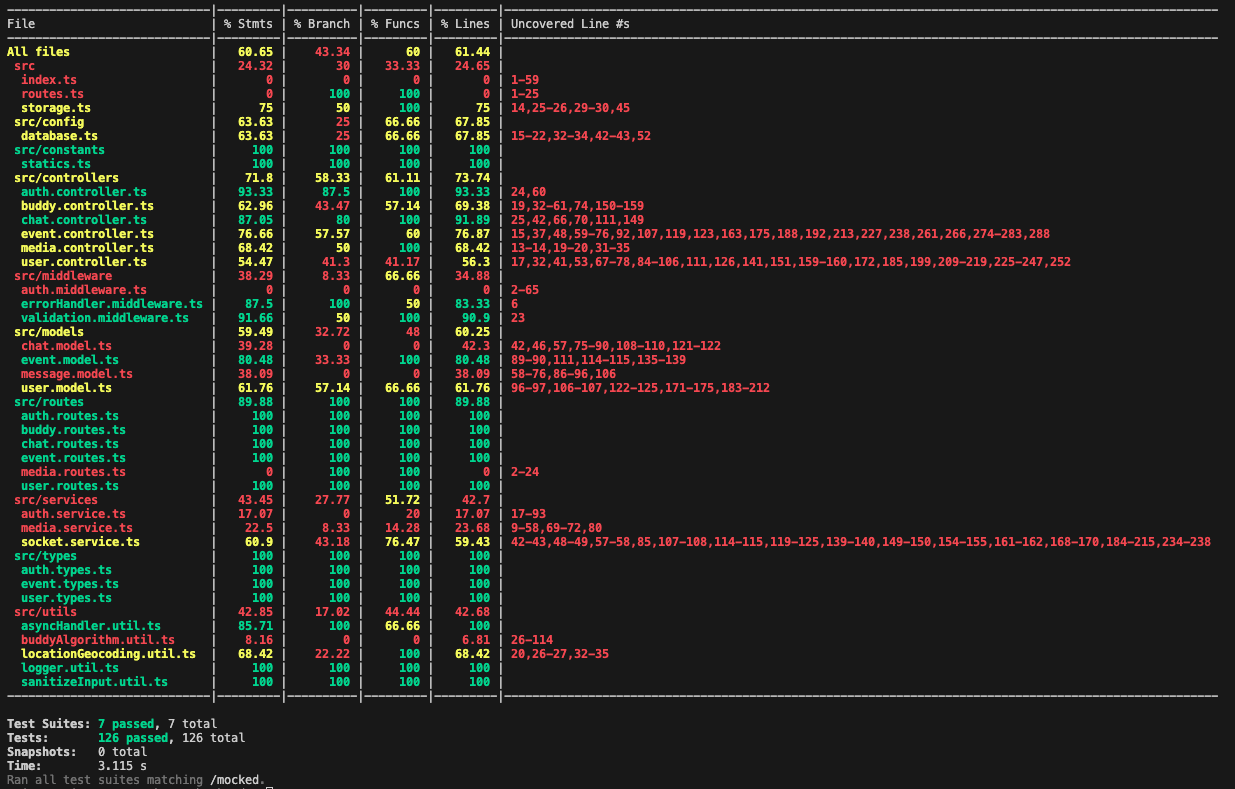
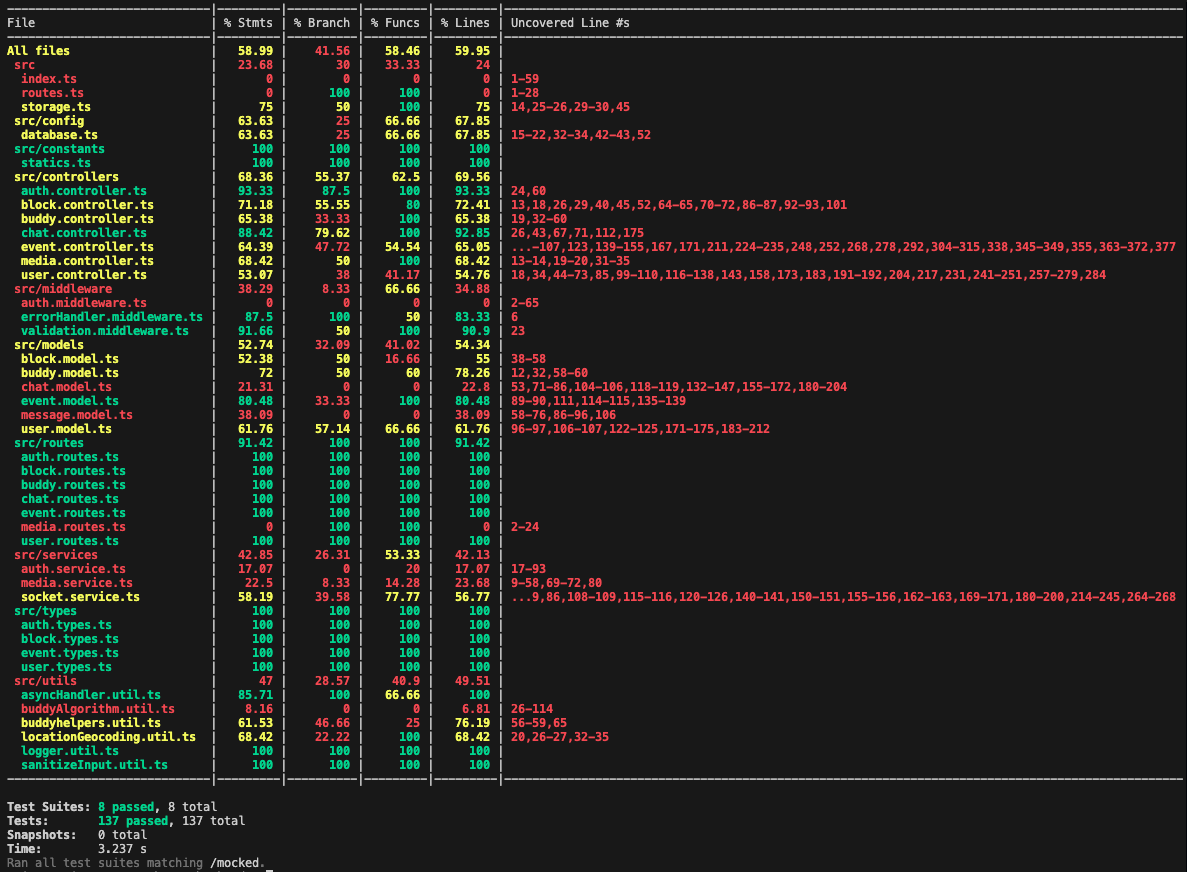
add testing doc forb locks

Changed region(s): [[0.0, 0.0, 0.9975, 1.0]]

diff --git a/backend/tests/unmocked/blockNM.test.ts b/backend/tests/unmocked/blockNM.test.ts
@@ -83,14 +83,14 @@ afterAll(async () => {
   await teardownTestDB();
 });
 
-describe('Block Controller - Unmocked', () => {
+describe('POST /api/block - unmocked', () => {
   /*
     Inputs: POST request to /api/block with targetUserId being a valid ObjectId as an unauthenticated user
     Expected status: 401
     Output: { message: unauthorized }
     Expected behavior: Returns error when unauthenticated user tries to block another user
   */
-  test('POST /api/block returns 401 when unauthorized', async () => {
+  test('returns 401 when unauthorized', async () => {
     const res = await request(app)
       .post('/api/block')
       .set('x-no-auth', '1')
@@ -105,7 +105,7 @@ describe('Block Controller - Unmocked', () => {
     Output: { message: Invalid target user id }
     Expected behavior: Returns error when invalid target user id is provided
   */
-  test('POST /api/block returns 400 for invalid target user id', async () => {
+  test('returns 400 for invalid target user id', async () => {
     const res = await request(app)
       .post('/api/block')
       .send({ targetUserId: 'invalid-id' });
@@ -119,7 +119,7 @@ describe('Block Controller - Unmocked', () => {
     Output: { message: Cannot block yourself }
     Expected behavior: Returns error when attempting to block oneself
   */
-  test('POST /api/block returns 400 when blocking self', async () => {
+  test('returns 400 when blocking self', async () => {
     const res = await request(app)
       .post('/api/block')
       .send({ targetUserId: String(userA._id) });
@@ -133,21 +133,23 @@ describe('Block Controller - Unmocked', () => {
     Output: { message: User blocked successfully }
     Expected behavior: Returns success message when successfully blocking another valid user
   */
-  test('POST /api/block succeeds (201) when A blocks B', async () => {
+  test('succeeds (201) when A blocks B', async () => {
     const res = await request(app)
       .post('/api/block')
       .send({ targetUserId: String(userB._id) });
     expect(res.status).toBe(201);
     expect(res.body).toHaveProperty('message', 'User blocked successfully');
   });
+});
 
+describe('GET /api/block - unmocked', () => {
   /*
     Inputs: GET request to /api/block as an unauthenticated user
     Expected status: 401
     Output: { message: unauthorized }
     Expected behavior: Returns error when unauthenticated user tries to get list of blocked users
   */
-  test('GET /api/block returns 401 when unauthorized', async () => {
+  test('returns 401 when unauthorized', async () => {
     const res = await request(app)
       .get('/api/block')
       .set('x-no-auth', '1');
@@ -161,7 +163,7 @@ describe('Block Controller - Unmocked', () => {
     Output: { data: { blockedUserIds: [String] } }
     Expected behavior: Returns list of blocked user ids
   */
-  test('GET /api/block lists blocked users', async () => {
+  test('lists blocked users', async () => {
     const res = await request(app).get('/api/block');
     expect(res.status).toBe(200);
     expect(res.body).toHaveProperty('data');
@@ -169,14 +171,16 @@ describe('Block Controller - Unmocked', () => {
     expect(Array.isArray(res.body.data.blockedUserIds)).toBe(true);
     expect(res.body.data.blockedUserIds).toContain(String(userB._id));
   });
+});
 
+describe('GET /api/block/check/:targetUserId - unmocked', () => {
   /*
     Inputs: GET request to /api/block/check/:targetUserId as an unauthenticated user
     Expected status: 401
     Output: { message: unauthorized }
     Expected behavior: Returns error when unauthenticated user tries to check if someone has blocked them
   */
-  test('GET /api/block/check/:targetUserId returns 401 when unauthorized', async () => {
+  test('returns 401 when unauthorized', async () => {
     const res = await request(app)
       .get(`/api/block/check/${String(userB._id)}`)
       .set('x-no-auth', '1');
@@ -190,7 +194,7 @@ describe('Block Controller - Unmocked', () => {
     Output: { message: Invalid target user id }
     Expected behavior: Returns error when checking if someone with an invalid userId has blocked them
   */
-  test('GET /api/block/check/:targetUserId returns 400 for invalid id', async () => {
+  test('returns 400 for invalid id', async () => {
     const res = await request(app).get('/api/block/check/invalid-id');
     expect(res.status).toBe(400);
     expect(res.body).toHaveProperty('message', 'Invalid target user id');
@@ -202,7 +206,7 @@ describe('Block Controller - Unmocked', () => {
     Output: { data: { isBlocked: boolean } }
     Expected behavior: Returns true if the user is blocked by the target user, false otherwise
   */
-  test('GET /api/block/check/:targetUserId returns correct isBlocked status', async () => {
+  test('returns correct isBlocked status', async () => {
     // At this point A has blocked B, but B has not blocked A: A is not blocked by B
     const aCheckB = await request(app).get(`/api/block/check/${String(userB._id)}`);
     expect(aCheckB.status).toBe(200);
@@ -222,14 +226,16 @@ describe('Block Controller - Unmocked', () => {
     expect(aCheckBAgain.body).toHaveProperty('data');
     expect(aCheckBAgain.body.data).toHaveProperty('isBlocked', true);
   });
+});
 
+describe('DELETE /api/block/:targetUserId - unmocked', () => {
   /*
     Inputs: DELETE request to /api/block/:targetUserId as an unauthenticated user
     Expected status: 401
     Output: { message: unauthorized }
     Expected behavior: Returns error when unauthenticated user tries to unblock another user
   */
-  test('DELETE /api/block/:targetUserId returns 401 when unauthorized', async () => {
+  test('returns 401 when unauthorized', async () => {
     const res = await request(app)
       .delete(`/api/block/${String(userB._id)}`)
       .set('x-no-auth', '1');
@@ -243,19 +249,19 @@ describe('Block Controller - Unmocked', () => {
     Output: { message: Invalid target user id }
     Expected behavior: Returns error when unblocking a user with an invalid userId
   */
-  test('DELETE /api/block/:targetUserId returns 400 for invalid id', async () => {
+  test('returns 400 for invalid id', async () => {
     const res = await request(app).delete('/api/block/not-an-id');
     expect(res.status).toBe(400);
     expect(res.body).toHaveProperty('message', 'Invalid target user id');
   });
 
-    /*
+  /*
     Inputs: DELETE request to /api/block/:targetUserId with targetUserId being a valid ObjectId
     Expected status: 200
     Output: { message: User unblocked successfully }
     Expected behavior: Returns success message when successfully unblocking another valid user
   */
-  test('DELETE /api/block/:targetUserId succeeds (200) for A unblocking B', async () => {
+  test('succeeds (200) for A unblocking B', async () => {
     const res = await request(app).delete(`/api/block/${String(userB._id)}`);
     expect(res.status).toBe(200);
     expect(res.body).toHaveProperty('message', 'User unblocked successfully');

diff --git a/backend/tests/mocked/blockM.test.ts b/backend/tests/mocked/blockM.test.ts
@@ -29,7 +29,22 @@ afterAll(() => {
   // nothing needed
 });
 
-describe('BlockModel - mocked', () => {
+
+describe('POST /api/block - mocked', () => {
+  /*
+    Inputs: POST request to /api/block with targetUserId being a valid ObjectId
+    Expected status: 500
+    Output: { error }
+    Expected behavior: Returns error when there is a database error trying to add to the blocked table
+  */
+  test('returns 500 when blockUser throws', async () => {
+    const targetId = new mongoose.Types.ObjectId();
+    const spy = jest.spyOn(blockModel, 'blockUser').mockRejectedValue(new Error('DB error'));
+    const res = await request(app).post('/api/block').send({ targetUserId: targetId.toString() });
+    expect(res.status).toBe(500);
+    expect(spy).toHaveBeenCalled();
+  });
+
   /*
     Inputs: Function call to blockUser with targetUserId being the same as the authenticated user
     Output: { error: Cannot block yourself }
@@ -54,60 +69,51 @@ describe('BlockModel - mocked', () => {
     await expect(blockModel.blockUser(a, b)).rejects.toThrow('Failed to create block record');
     expect(spy).toHaveBeenCalled();
   });
+
 });
 
-describe('BlockController - mocked error paths', () => {
-  /*
-    Inputs: POST request to /api/block with targetUserId being a valid ObjectId
-    Expected status: 500
-    Output: { error }
-    Expected behavior: Returns error when there is a database error trying to add to the blocked table
-  */
-  test('POST /api/block returns 500 when blockUser throws', async () => {
-    const targetId = new mongoose.Types.ObjectId();
-    const spy = jest.spyOn(blockModel, 'blockUser').mockRejectedValue(new Error('DB error'));
-    const res = await request(app).post('/api/block').send({ targetUserId: targetId.toString() });
-    expect(res.status).toBe(500);
-    expect(spy).toHaveBeenCalled();
-  });
-
-  /*
-    Inputs: DELETE request to /api/block/:targetUserId with targetUserId being a valid ObjectId
-    Expected status: 500
-    Output: { error }
-    Expected behavior: Returns error when there is a database error trying to add to the blocked table
-  */
-  test('DELETE /api/block/:targetUserId returns 500 when unblockUser throws', async () => {
-    const targetId = new mongoose.Types.ObjectId();
-    const spy = jest.spyOn(blockModel, 'unblockUser').mockRejectedValue(new Error('DB error'));
-    const res = await request(app).delete(`/api/block/${targetId.toString()}`);
-    expect(res.status).toBe(500);
-    expect(spy).toHaveBeenCalled();
-  });
-
+describe('GET /api/block - mocked', () => {
   /*
     Inputs: GET request to /api/block
     Expected status: 500
     Output: { error }
     Expected behavior: Returns error when there is a database error trying to get list of blocked users
   */
-  test('GET /api/block returns 500 when getBlockedUsers throws', async () => {
+  test('returns 500 when getBlockedUsers throws', async () => {
     const spy = jest.spyOn(blockModel, 'getBlockedUsers').mockRejectedValue(new Error('DB error'));
     const res = await request(app).get('/api/block');
     expect(res.status).toBe(500);
     expect(spy).toHaveBeenCalled();
   });
+});
 
+describe('GET /api/block/check/:targetUserId - mocked', () => {
   /*
     Inputs: GET request to /api/block/check/:targetUserId with targetUserId being a valid ObjectId
     Expected status: 500
     Output: { error }
     Expected behavior: Returns error when there is a network error trying to check if the user is blocked by the target user
   */
-  test('GET /api/block/check/:targetUserId returns 500 when isBlockedBy throws', async () => {
+  test('returns 500 when isBlockedBy throws', async () => {
     const otherId = new mongoose.Types.ObjectId();
     const spy = jest.spyOn(blockModel, 'isBlockedBy').mockRejectedValue(new Error('Network error'));
     const res = await request(app).get(`/api/block/check/${otherId.toString()}`);
+    expect(res.status).toBe(500);
+    expect(spy).toHaveBeenCalled();
+  });
+});
+
+describe('DELETE /api/block/:targetUserId - mocked', () => {
+  /*
+    Inputs: DELETE request to /api/block/:targetUserId with targetUserId being a valid ObjectId
+    Expected status: 500
+    Output: { error }
+    Expected behavior: Returns error when there is a database error trying to add to the blocked table
+  */
+  test('returns 500 when unblockUser throws', async () => {
+    const targetId = new mongoose.Types.ObjectId();
+    const spy = jest.spyOn(blockModel, 'unblockUser').mockRejectedValue(new Error('DB error'));
+    const res = await request(app).delete(`/api/block/${targetId.toString()}`);
     expect(res.status).toBe(500);
     expect(spy).toHaveBeenCalled();
   });

diff --git a/documentation/Testing_And_Code_Review.md b/documentation/Testing_And_Code_Review.md
@@ -7,6 +7,7 @@
 | Nov 24, 2025 | 4.1 Location of Front-end Test Suite | Corrected frontend test locations, added all test files |
 | Nov 24, 2025 | 2.3, 2.4, 2.5 Jest Coverage Reports | Added coverage reports to reflect additional testing |
 | Nov 24, 2025 | 2.1.1 Tests | Edit line numbers for test locations after adding more tests for coverage, and comments describing tests |
+| Nov 28, 2025 | 2.1.1 Tests | Edit line numbers for test locations for block routes |
 
 ---
 
@@ -21,26 +22,31 @@
 | **POST /auth/signup**          | [`backend/tests/unmocked/authNM.test.ts#L48`] | [`backend/tests/mocked/authM.test.ts#L21`] | Google Authentication API/ Auth Service |
 | **POST /auth/signin**          | [`backend/tests/unmocked/authNM.test.ts#L463`] | [`backend/tests/mocked/authM.test.ts#L143`] | Google Authentication API/ Auth Service |
 | **GET /buddy**                 | [`backend/tests/unmocked/buddyNM.test.ts#L64`] | [`backend/tests/mocked/buddyM.test.ts#L66`] | User DB |
-| **GET /chats**                 | [`backend/tests/unmocked/chatNM.test.ts#L217`] | [`backend/tests/mocked/chatM.test.ts#L91`] | Chat DB |
-| **POST /chats**                 | [`backend/tests/unmocked/chatNM.test.ts#L130`] | [`backend/tests/mocked/chatM.test.ts#L272`] | Chat DB |
-| **GET /chats/:chatId**             | [`backend/tests/unmocked/chatNM.test.ts#L250`] | [`backend/tests/mocked/chatM.test.ts#L169`] | Chat DB |
-| **GET /chats/messages/:chatId**      | [`backend/tests/unmocked/chatNM.test.ts#L412`] | [`backend/tests/mocked/chatM.test.ts#L572`] | Chat DB |
-| **POST /chats/:chatId/messages/**     | [`backend/tests/unmocked/chatNM.test.ts#L315`] | [`backend/tests/mocked/chatM.test.ts#L407`] | Chat DB |
-| **GET /events**     | [`backend/tests/unmocked/eventNM.test.ts#L68`] | [`backend/tests/mocked/eventM.test.ts#L69`] | Event DB |
-| **GET /events/:eventId**     | [`backend/tests/unmocked/eventNM.test.ts#L87`] | [`backend/tests/mocked/eventM.test.ts#L175`] | Event DB |
-| **POST /events**     | [`backend/tests/unmocked/eventNM.test.ts#L154`] | [`backend/tests/mocked/eventM.test.ts#L291`] | Event DB |
-| **PUT /events/join/:eventId**     | [`backend/tests/unmocked/eventNM.test.ts#L283`] | [`backend/tests/mocked/eventM.test.ts#L576`] | Event DB |
-| **PUT /events/leave/:eventId**     | [`backend/tests/unmocked/eventNM.test.ts#L342`] | [`backend/tests/mocked/eventM.test.ts#L718`] | Event DB |
-| **PUT /events/:eventId**     | [`backend/tests/unmocked/eventNM.test.ts#L401`] | [`backend/tests/mocked/eventM.test.ts#L410`] | Event DB |
-| **DELETE /events/:eventId**     | [`backend/tests/unmocked/eventNM.test.ts#L499`] | [`backend/tests/mocked/eventM.test.ts#L856`] | Event DB |
+| **GET /chats**                 | [`backend/tests/unmocked/chatNM.test.ts#L277`] | [`backend/tests/mocked/chatM.test.ts#L92`] | Chat DB |
+| **POST /chats**                 | [`backend/tests/unmocked/chatNM.test.ts#L137`] | [`backend/tests/mocked/chatM.test.ts#L387`] | Chat DB |
+| **GET /chats/:chatId**             | [`backend/tests/unmocked/chatNM.test.ts#L310`] | [`backend/tests/mocked/chatM.test.ts#L284`] | Chat DB |
+| **GET /chats/messages/:chatId**      | [`backend/tests/unmocked/chatNM.test.ts#L485`] | [`backend/tests/mocked/chatM.test.ts#L687`] | Chat DB |
+| **POST /chats/:chatId/messages/**     | [`backend/tests/unmocked/chatNM.test.ts#L388`] | [`backend/tests/mocked/chatM.test.ts#L522`] | Chat DB |
+| **GET /events**     | [`backend/tests/unmocked/eventNM.test.ts#L69`] | [`backend/tests/mocked/eventM.test.ts#L69`] | Event DB |
+| **GET /events/:eventId**     | [`backend/tests/unmocked/eventNM.test.ts#L88`] | [`backend/tests/mocked/eventM.test.ts#L175`] | Event DB |
+| **POST /events**     | [`backend/tests/unmocked/eventNM.test.ts#L155`] | [`backend/tests/mocked/eventM.test.ts#L291`] | Event DB |
+| **PUT /events/join/:eventId**     | [`backend/tests/unmocked/eventNM.test.ts#L284`] | [`backend/tests/mocked/eventM.test.ts#L576`] | Event DB |
+| **PUT /events/leave/:eventId**     | [`backend/tests/unmocked/eventNM.test.ts#L343`] | [`backend/tests/mocked/eventM.test.ts#L718`] | Event DB |
+| **PUT /events/:eventId**     | [`backend/tests/unmocked/eventNM.test.ts#L489`] | [`backend/tests/mocked/eventM.test.ts#L410`] | Event DB |
+| **DELETE /events/:eventId**     | [`backend/tests/unmocked/eventNM.test.ts#L587`] | [`backend/tests/mocked/eventM.test.ts#L856`] | Event DB |
 | **POST /media/upload**     | [`backend/tests/unmocked/mediaNM.test.ts#L130`] | [`backend/tests/mocked/mediaM.test.ts#L136`] | Media Service |
-| **GET /users**     | [`backend/tests/unmocked/userNM.test.ts#L82`] | [`backend/tests/mocked/userM.test.ts#L72`] | User DB |
-| **GET /users/profile**     | [`backend/tests/unmocked/userNM.test.ts#L101`] | [`backend/tests/mocked/userM.test.ts#L110`] | User DB |
-| **GET /users/:id**     | [`backend/tests/unmocked/userNM.test.ts#L122`] | [`backend/tests/mocked/userM.test.ts#L130`] | User DB |
-| **DELETE /users/**     | [`backend/tests/unmocked/userNM.test.ts#L674`] | [`backend/tests/mocked/userM.test.ts#L495`] | User DB |
-| **DELETE /users/:id**     | [`backend/tests/unmocked/userNM.test.ts#L436`] | [`backend/tests/mocked/userM.test.ts#L409`] | User DB |
-| **PUT /users/:id**     | [`backend/tests/unmocked/userNM.test.ts#L168`] | [`backend/tests/mocked/userM.test.ts#L189`] | User DB |
-| **POST /users/**     | [`backend/tests/unmocked/userNM.test.ts#L271`] | [`backend/tests/mocked/userM.test.ts#L297`] | User DB |
+| **GET /users**     | [`backend/tests/unmocked/userNM.test.ts#L83`] | [`backend/tests/mocked/userM.test.ts#L72`] | User DB |
+| **GET /users/profile**     | [`backend/tests/unmocked/userNM.test.ts#L102`] | [`backend/tests/mocked/userM.test.ts#L110`] | User DB |
+| **GET /users/:id**     | [`backend/tests/unmocked/userNM.test.ts#L123`] | [`backend/tests/mocked/userM.test.ts#L130`] | User DB |
+| **DELETE /users/**     | [`backend/tests/unmocked/userNM.test.ts#L730`] | [`backend/tests/mocked/userM.test.ts#L495`] | User DB |
+| **DELETE /users/:id**     | [`backend/tests/unmocked/userNM.test.ts#L492`] | [`backend/tests/mocked/userM.test.ts#L409`] | User DB |
+| **PUT /users/:id**     | [`backend/tests/unmocked/userNM.test.ts#L224`] | [`backend/tests/mocked/userM.test.ts#L189`] | User DB |
+| **POST /users/**     | [`backend/tests/unmocked/userNM.test.ts#L327`] | [`backend/tests/mocked/userM.test.ts#L297`] | User DB |
+| **POST /block**     | [`backend/tests/unmocked/blockNM.test.ts#L86`] | [`backend/tests/mocked/blockM.test.ts#L33`] | Block DB |
+| **GET /block**     | [`backend/tests/unmocked/blockNM.test.ts#L145`] | [`backend/tests/mocked/blockM.test.ts#L75`] | Block DB |
+| **GET /block/check/:targetUserId**     | [`backend/tests/unmocked/blockNM.test.ts#L176`] | [`backend/tests/mocked/blockM.test.ts#L90`] | Block DB |
+| **DELETE /block/:targetUserId**     | [`backend/tests/unmocked/blockNM.test.ts#L231`] | [`backend/tests/mocked/blockM.test.ts#L106`] | Block DB |
+
 
 #### 2.1.2. Commit Hash Where Tests Run
 
